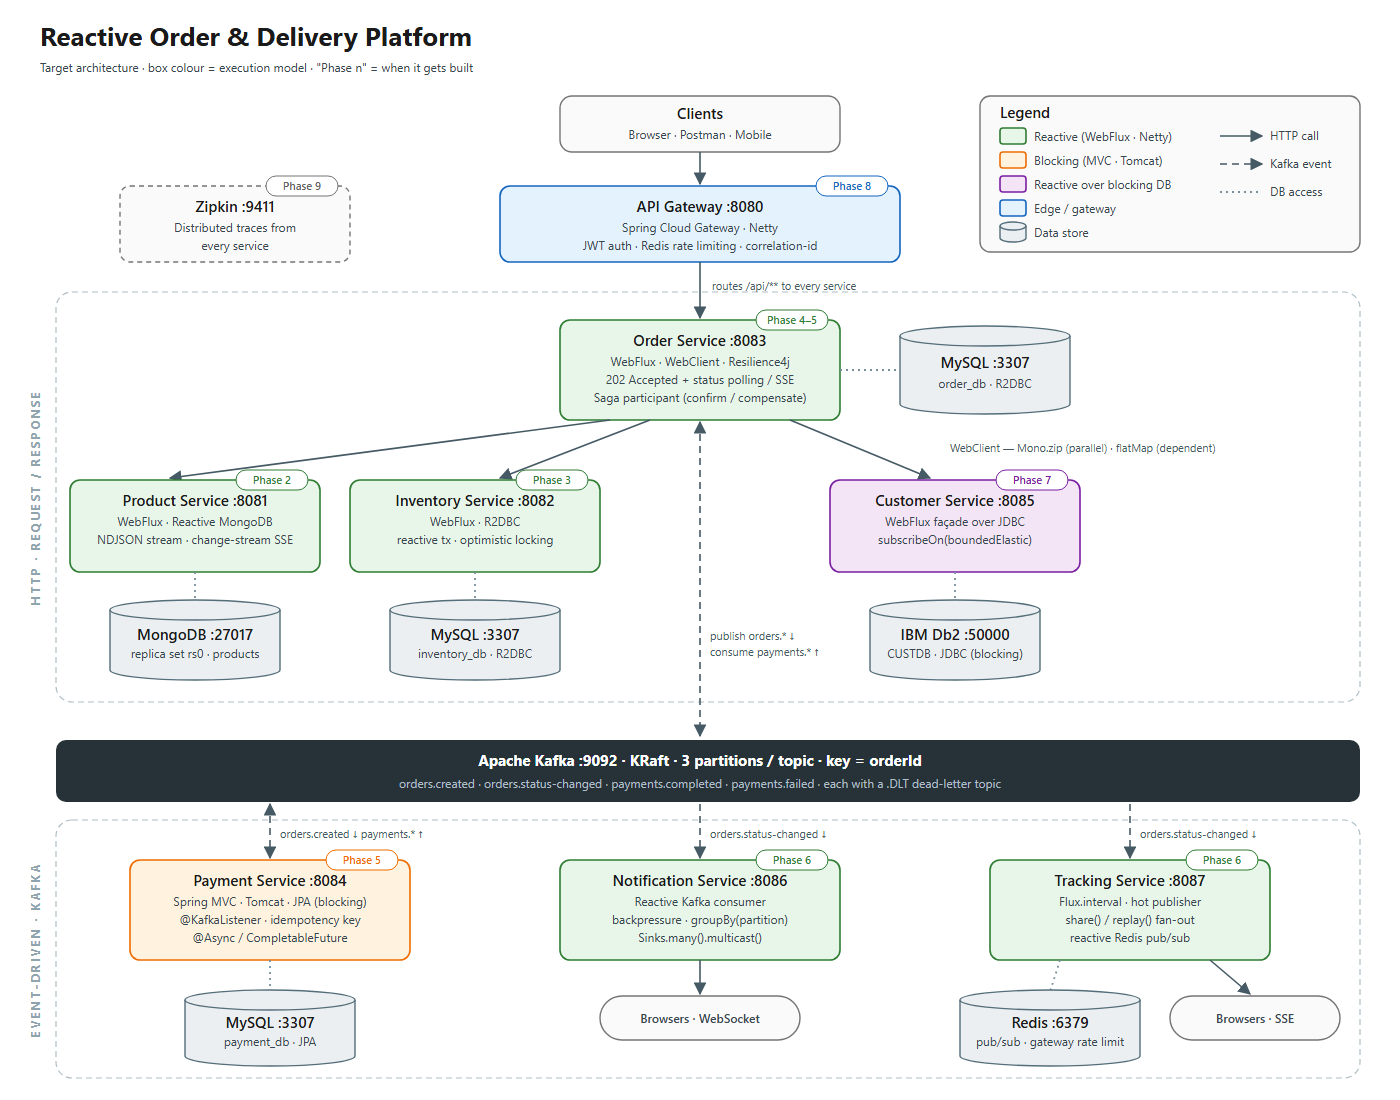
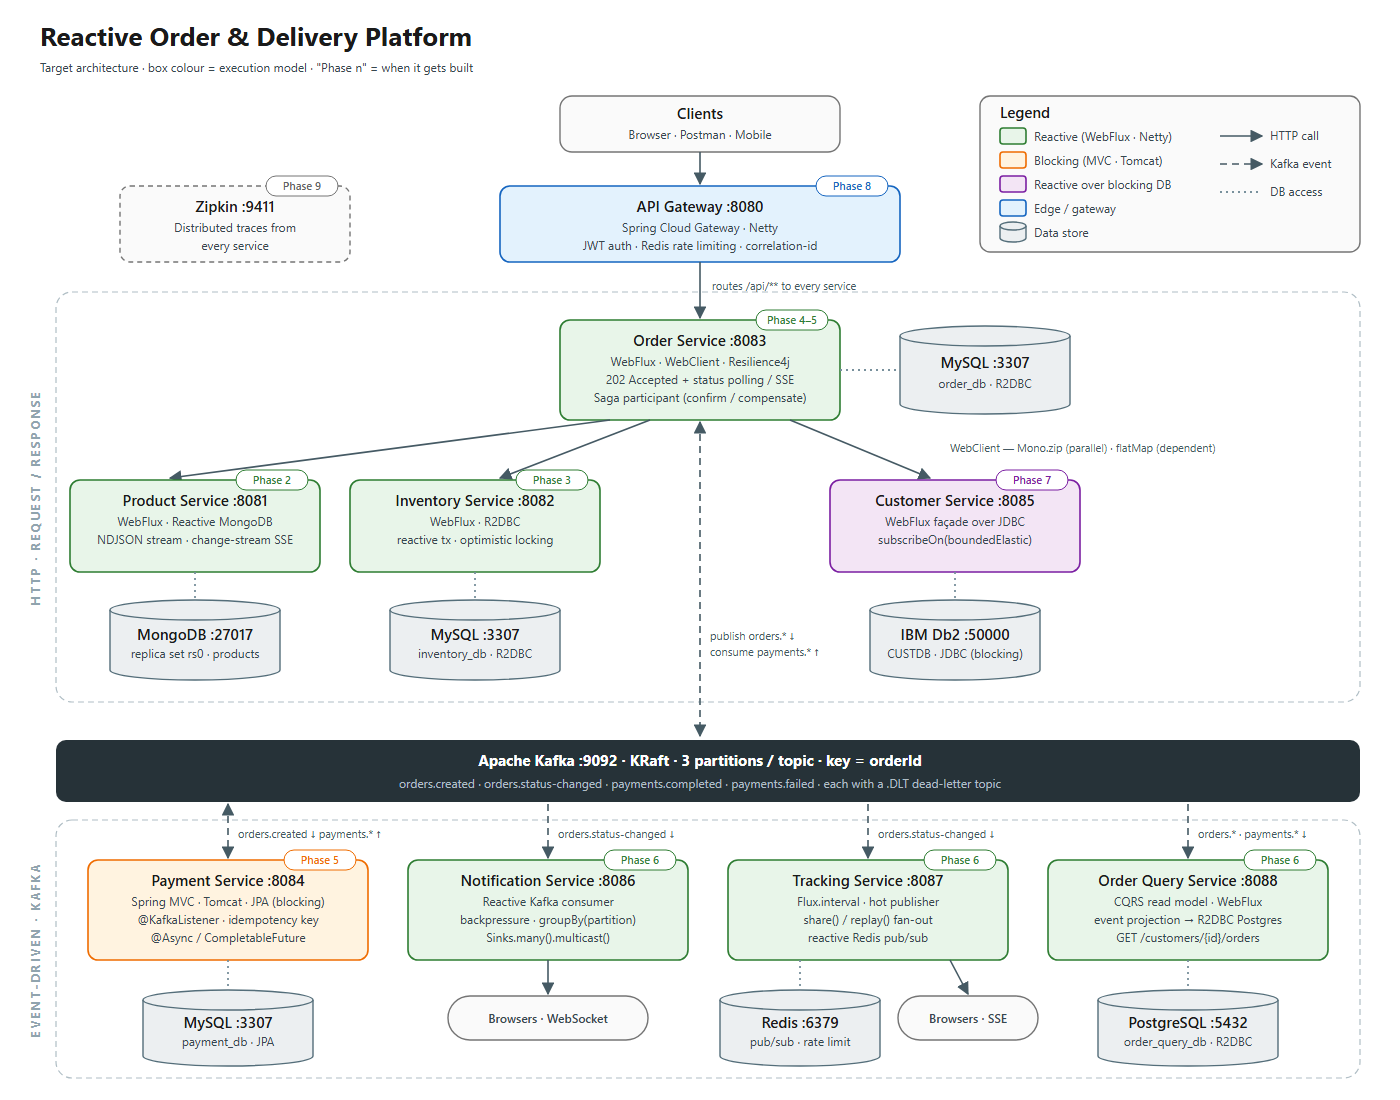
Add PostgreSQL CQRS read model (order-query-service skeleton)
- PostgreSQL 17 in docker-compose (order_query_db) for a read-optimised order history
- order-query-service (:8088) skeleton: will project Kafka order/payment events into R2DBC Postgres (Phase 6)
- Target architecture diagram and README updated

Changed region(s): [[0.0614, 0.7418, 0.9521, 0.9582], [0.0921, 0.8964, 0.2457, 0.9891]]

diff --git a/order-query-service/src/main/java/com/reactiveplatform/orderquery/OrderQueryServiceApplication.java b/order-query-service/src/main/java/com/reactiveplatform/orderquery/OrderQueryServiceApplication.java
@@ -1,0 +1,22 @@
+package com.reactiveplatform.orderquery;
+
+import org.springframework.boot.SpringApplication;
+import org.springframework.boot.autoconfigure.SpringBootApplication;
+
+/**
+ * CQRS read side for orders.
+ * <p>
+ * The write side (order-service) owns the truth in MySQL. This service consumes the Kafka events
+ * (orders.created, orders.status-changed, payments.*) and maintains a denormalised order-history
+ * projection in PostgreSQL via R2DBC, optimised for read-heavy queries such as
+ * {@code GET /customers/{id}/orders}. Reads are eventually consistent with the write side.
+ * <p>
+ * Phase 0 skeleton - implemented in Phase 6.
+ */
+@SpringBootApplication
+public class OrderQueryServiceApplication {
+
+    public static void main(String[] args) {
+        SpringApplication.run(OrderQueryServiceApplication.class, args);
+    }
+}

diff --git a/order-query-service/src/test/java/com/reactiveplatform/orderquery/OrderQueryServiceApplicationTests.java b/order-query-service/src/test/java/com/reactiveplatform/orderquery/OrderQueryServiceApplicationTests.java
@@ -1,0 +1,12 @@
+package com.reactiveplatform.orderquery;
+
+import org.junit.jupiter.api.Test;
+import org.springframework.boot.test.context.SpringBootTest;
+
+@SpringBootTest(webEnvironment = SpringBootTest.WebEnvironment.RANDOM_PORT)
+class OrderQueryServiceApplicationTests {
+
+    @Test
+    void contextLoads() {
+    }
+}

diff --git a/README.md b/README.md
@@ -27,9 +27,9 @@ Diagrams live in [docs/architecture/](docs/architecture/): the target architectu
                                       │
                                ┌──────┴──────┐
                                ▼   Kafka     ▼
-                     Notification :8086   Tracking :8087
-                     reactive consumer,   SSE, hot streams,
-                     WebSocket push       reactive Redis
+                     Notification :8086   Tracking :8087      Order Query :8088
+                     reactive consumer,   SSE, hot streams,   CQRS read model,
+                     WebSocket push       reactive Redis      R2DBC PostgreSQL
 ```
 
 </details>
@@ -46,6 +46,7 @@ Diagrams live in [docs/architecture/](docs/architecture/): the target architectu
 | `payment-service` | 8084 | **Spring MVC** (blocking on purpose), JPA, MySQL | 5 |
 | `notification-service` | 8086 | WebFlux, reactive Kafka consumer, WebSocket | 6 |
 | `tracking-service` | 8087 | WebFlux, SSE, reactive Redis | 6 |
+| `order-query-service` | 8088 | **CQRS read model**: Kafka event projection into R2DBC PostgreSQL | 6 |
 | `customer-service` | 8085 | WebFlux over blocking DB2 JDBC | 7 |
 | `api-gateway` | 8080 | Spring Cloud Gateway (WebFlux) | 8 |
 
@@ -57,6 +58,7 @@ Diagrams live in [docs/architecture/](docs/architecture/): the target architectu
 | Kafka UI | 8090 | http://localhost:8090 |
 | MongoDB 8.0 | 27017 | Single-node replica set `rs0` (required for change streams) |
 | MySQL 8.4 | **3307** | Schemas `inventory_db`, `order_db`, `payment_db`; user `app`/`app` |
+| PostgreSQL 17 | 5432 | `order_query_db` (CQRS read model); user `app`/`app` |
 | Redis 8.2 | 6379 | |
 | Zipkin 3.6 | 9411 | http://localhost:9411 |
 | IBM Db2 12.1 | 50000 | Opt-in profile `legacy`; database `CUSTDB`, user `db2inst1` |
@@ -111,7 +113,7 @@ curl http://localhost:8081/actuator/health
 - [ ] **Phase 3** – Inventory Service: R2DBC + reactive transactions
 - [ ] **Phase 4** – Order Service: WebClient, `Mono.zip`, Resilience4j, 202 async API
 - [ ] **Phase 5** – Kafka, Payment Service (MVC), saga + compensation
-- [ ] **Phase 6** – Notification + Tracking: backpressure, SSE, WebSocket, Sinks
+- [ ] **Phase 6** – Notification + Tracking: backpressure, SSE, WebSocket, Sinks · Order Query: CQRS read model on PostgreSQL
 - [ ] **Phase 7** – Customer Service: DB2 blocking bridge, BlockHound
 - [ ] **Phase 8** – API Gateway + Security
 - [ ] **Phase 9** – Observability, Testcontainers, performance (WebFlux vs MVC vs Virtual Threads)
@@ -121,9 +123,9 @@ curl http://localhost:8081/actuator/health
 
 | Topic | Producer → Consumer | Event |
 |---|---|---|
-| `orders.created` | order → payment | `OrderCreatedEvent` |
-| `payments.completed` | payment → order | `PaymentCompletedEvent` |
-| `payments.failed` | payment → order | `PaymentFailedEvent` (triggers compensation) |
-| `orders.status-changed` | order → notification, tracking | `OrderStatusChangedEvent` |
+| `orders.created` | order → payment, order-query | `OrderCreatedEvent` |
+| `payments.completed` | payment → order, order-query | `PaymentCompletedEvent` |
+| `payments.failed` | payment → order, order-query | `PaymentFailedEvent` (triggers compensation) |
+| `orders.status-changed` | order → notification, tracking, order-query | `OrderStatusChangedEvent` |
 
 Each topic has a matching `<topic>.DLT` dead-letter topic. The message key is always `orderId`, which keeps events for one order in order within its partition.
